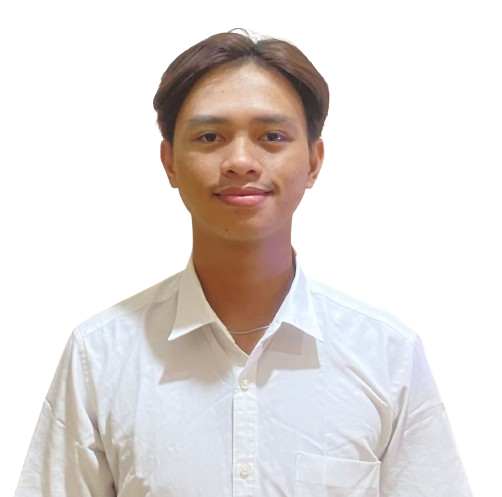
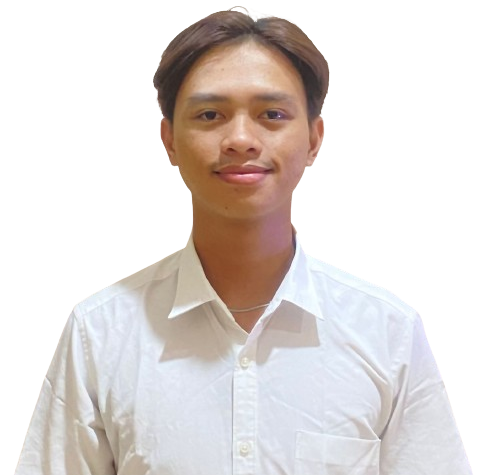
menambahkan foto team

diff --git a/index.html b/index.html
@@ -20,7 +20,7 @@
             <a href="index.html">Home</a>
             <a href="datasetPage/dataset.html">Dataset</a>
             <a href="#detailchart-section">Detail Chart</a>
-            <a href="#footer-team">
+            <a href="#team">
                 <img src="assets/img/Standard Collection 0.png" alt="Logo" class="logo-about">Our Team
             </a>    
         </div>
@@ -122,19 +122,64 @@
               <div class="slideshow-container">
                   <!-- Full-width images with number and caption text -->
                   <div class="mySlides fade" style="display: block;">
-                      <div class="numbertext">1 / 3</div>
+                      <div class="numbertext">1 / 12</div>
                       <img class="img-abt" src="assets/img/gilang_bg.png" style="width:100%" alt="Gilang">
                       <div class="text">Muhammad Gilang Ramadhan</div>
                   </div>
                   <div class="mySlides fade">
-                      <div class="numbertext">2 / 3</div>
-                      <img class="img-abt" src="assets/img/image.png"  style="width:100%">
-                      <div class="text">Caption Two</div>
+                      <div class="numbertext">2 / 12</div>
+                      <img class="img-abt" src="assets/img/Nugroho.png"  style="width:100%">
+                      <div class="text">Nugroho Adi Wira </div>
                   </div>
                   <div class="mySlides fade">
-                      <div class="numbertext">3 / 3</div>
-                      <img class="img-abt" src="assets/img/image.png"  style="width:100%">
-                      <div class="text">Caption Three</div>
+                      <div class="numbertext">3 / 12</div>
+                      <img class="img-abt" src="assets/img/ratri.png"  style="width:100%">
+                      <div class="text">Ratri Ismayanti</div>
+                  </div>
+                  <div class="mySlides fade">
+                      <div class="numbertext">4 / 12</div>
+                      <img class="img-abt" src="assets/img/akbar.png"  style="width:100%">
+                      <div class="text">Pria Akbar Maulana</div>
+                  </div>
+                  <div class="mySlides fade">
+                    <div class="numbertext">5 / 12</div>
+                    <img class="img-abt" src="assets/img/vandy.png"  style="width:100%">
+                    <div class="text">Muhammad Irvandy</div>
+                  </div>
+                  <div class="mySlides fade">
+                    <div class="numbertext">6 / 12</div>
+                    <img class="img-abt" src="assets/img/vivi.png"  style="width:100%">
+                    <div class="text">Nurul Rofidhatul Ilmi</div>
+                  </div>
+                  <div class="mySlides fade">
+                    <div class="numbertext">7 / 12</div>
+                    <img class="img-abt" src="assets/img/zahro.png"  style="width:100%">
+                    <div class="text">Aminatus zahro</div>
+                  </div>
+                  <div class="mySlides fade">
+                    <div class="numbertext">8 / 12</div>
+                    <img class="img-abt" src="assets/img/rona.png"  style="width:100%">
+                    <div class="text">Rona Kamilia</div>
+                  </div>
+                  <div class="mySlides fade">
+                    <div class="numbertext">9 / 12</div>
+                    <img class="img-abt" src="assets/img/allistya.PNG"  style="width:100%">
+                    <div class="text">Allistya Farida</div>
+                  </div>
+                  <div class="mySlides fade">
+                    <div class="numbertext">10 / 12</div>
+                    <img class="img-abt" src="assets/img/arianto.png"  style="width:100%">
+                    <div class="text">Arianto Tambunan</div>
+                  </div>
+                  <div class="mySlides fade">
+                    <div class="numbertext">11 / 12</div>
+                    <img class="img-abt" src="assets/img/daniella.PNG"  style="width:100%">
+                    <div class="text">Daniella Sandy Putri</div>
+                  </div>
+                  <div class="mySlides fade">
+                    <div class="numbertext">12 / 12</div>
+                    <img class="img-abt" src="assets/img/AFIDA.png"  style="width:100%">
+                    <div class="text">AfidatunNisa</div>
                   </div>
                   <!-- Next and previous buttons -->
                   <a class="prev" onclick="plusSlides(-1)">&#10094;</a>

diff --git a/style.css b/style.css
@@ -30,6 +30,7 @@ h2,
   padding: 10px;
   background-color: #f5f5f5;
   box-shadow: 0 15px 15px rgba(0, 0, 0, 0.25);
+  
 }
 
 .logo-brand {
